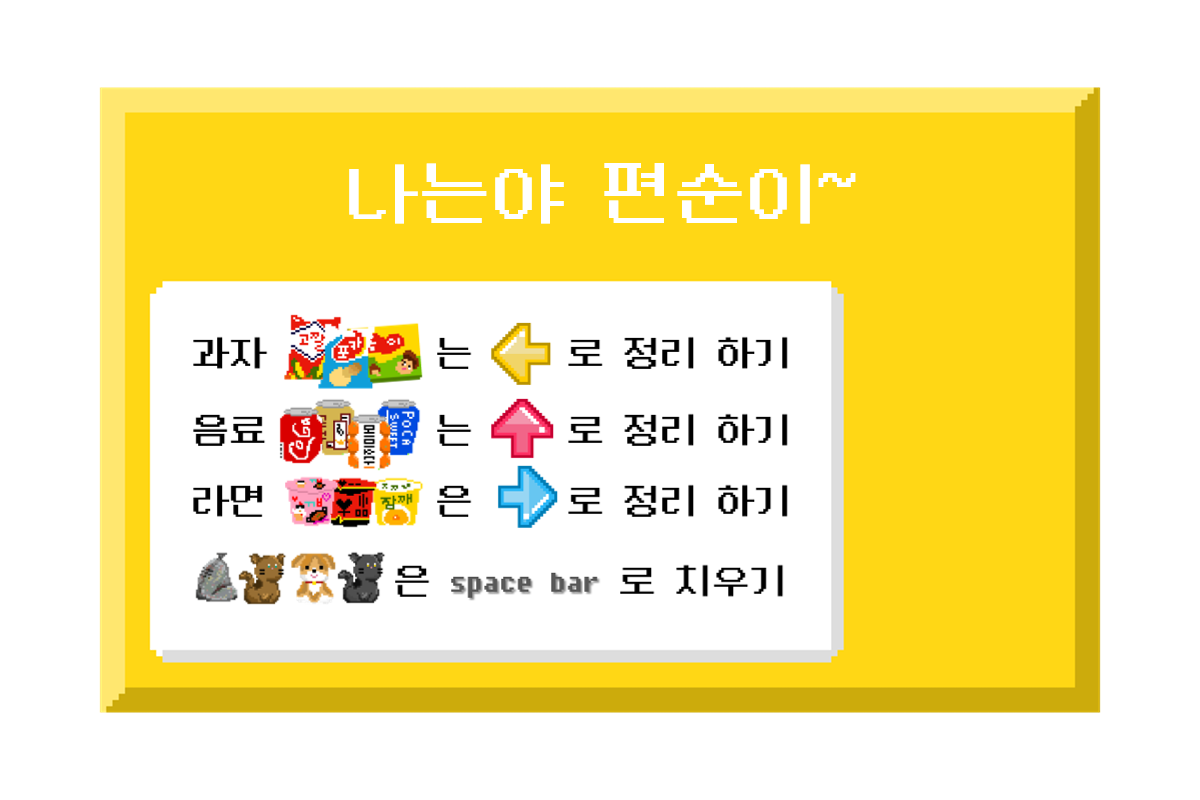
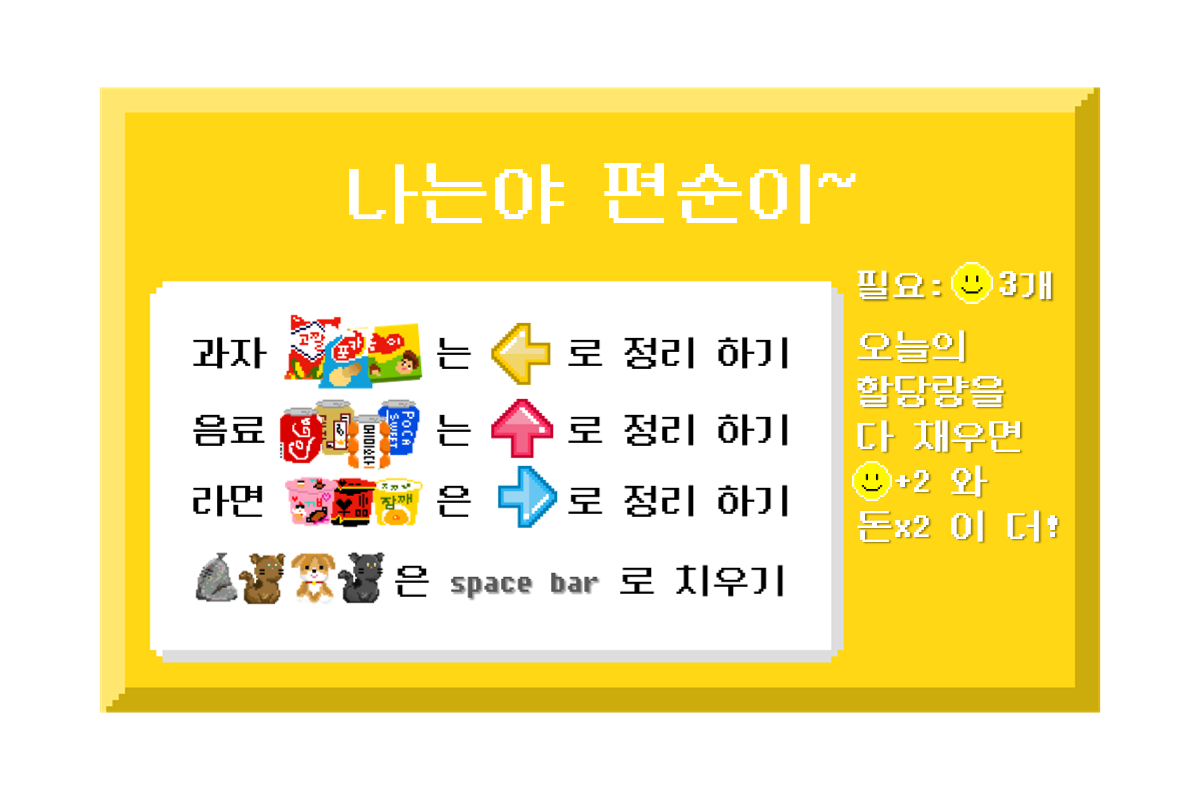
편순이 수정

Changed region(s): [[0.7092, 0.4062, 0.8942, 0.6875], [0.7092, 0.3125, 0.8942, 0.375]]

diff --git a/WinterProject/WebContent/store24.js b/WinterProject/WebContent/store24.js
@@ -30,7 +30,7 @@ class Store24 extends Phaser.Scene {
 
         this.총상품=0;
         this.상품간격= 900; //0.9초기준시작
-        this.할당량=10; //할당량 실수없이 끝내면 보너스 
+        this.할당량=100; //할당량 실수없이 끝내면 보너스 
 
         this.products; //group
         this.rand_product;//랜덤으로 뽑을 상품
